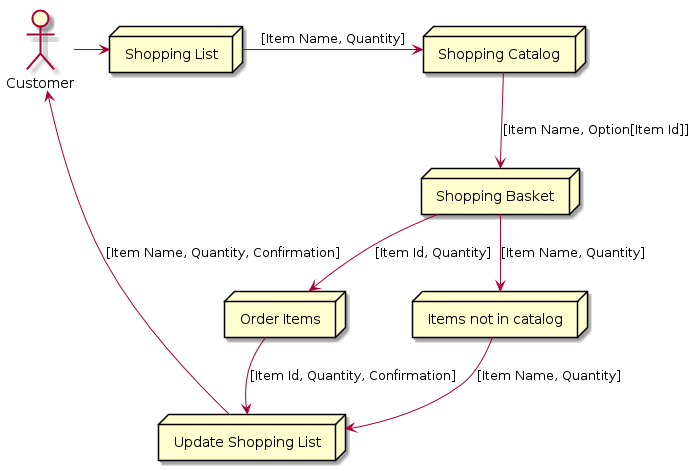
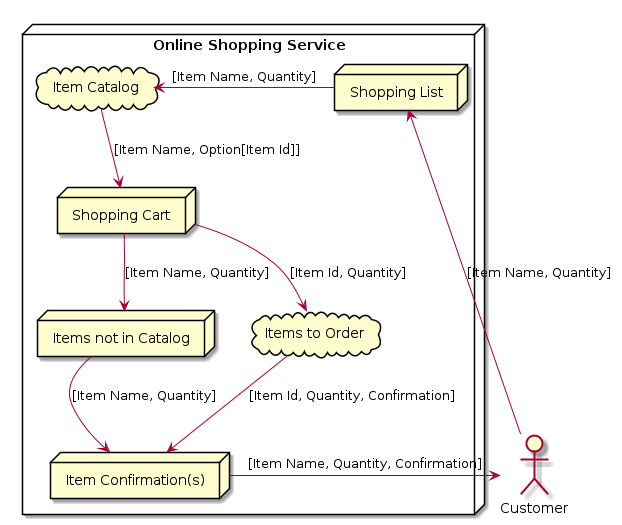
Nikola auto commit.
Nikola version: 8.0.2

diff --git a/posts/type-driven-development.md b/posts/type-driven-development.md
@@ -2,12 +2,11 @@
 .. title: Type Driven Development
 .. slug: type-driven-development
 .. date: 2019-09-08 16:11:55 UTC+02:00
-.. tags: 
+.. tags: software design, type driven development, functional programming, programming, scala
 .. category: 
 .. link: 
-.. description: 
+.. description: Type Driven Development: Formal specification using Type System. Define your code behaviour using types and let the compiler guide you to a verified system.
 .. type: text
-.. status: draft
 -->
 
 <!-- markdown-toc start - Don't edit this section. Run M-x markdown-toc-refresh-toc -->
@@ -26,7 +25,7 @@
     - [Step 1: Edge Behaviour: `List[ShoppingListItem] => F[List[ItemConfirmation]]`](#step-1-edge-behaviour-listshoppinglistitem--flistitemconfirmation)
     - [Step 2: Dependencies](#step-2-dependencies)
     - [Step3: Deriving Proof](#step3-deriving-proof)
-        - [Explanation: Monad, Functor & Higher Kinded Types](#explanation-monad-functor--higher-kinded-types)
+        - [Concepts: Monad, Functor & Higher Kinded Types](#concepts-monad-functor--higher-kinded-types)
         - [`ItemConfirmation` transformers](#itemconfirmation-transformers)
         - [Transformers to return complete `List[ItemConfirmation]`](#transformers-to-return-complete-listitemconfirmation)
         - [`toItemConfirmation` transformer](#toitemconfirmation-transformer)
@@ -35,15 +34,17 @@
 
 <!-- markdown-toc end -->
 # Introduction
-We use a Kanban/Agile mix methodology in our projects and we came across on an interesting problem when implementing a new feature. Rather than trying to explain it in vague terms, I am going to start with a story.
+In our project workflow, we break down features to implement into tickets and developers pick them off one by one; Pretty standard & typical Agile/Kanban workflow. However while working on a feature recently, we came across on an interesting problem where our standard workflow didn't work out. Rather than trying to explain it in vague terms, I am going to start with a story.
 
 ## TLDR
 In case you don't want to dive in just yet, here is the idea we will cover in this post.
 
 > Think about the behaviour of your program in terms of data types & functions signatures. Next step is to `prove` or `derive` a function that composes all of the types & signatures to implement the feature. Then carry on to implement each of the individual functions with the guarantee that all functions will compose together.
 
+Now onto the story.
+
 # The Square Jigsaw Table
-Master Carpenter was asked to create a square table which was made of four big square blocks that connect together like a jigsaw puzzle. Four colours were to be used - Red, Green, Yellow & Teal.
+A Master Carpenter was asked to create a square table which was made of four big square blocks that connect together like a jigsaw puzzle. Four colours were to be used - Red, Green, Yellow & Teal.
 
 ![Four coloured blocks of jigsaw](/images/orig.jpg)
 
@@ -53,14 +54,14 @@ The master carpenter had to go out of town and so he distributed the task among 
 * Each of you - `A`, `B`, `C` and, `D`, needs to build a square 
 * One side should have semicircle slot approximately 10% radius
 * The adjacent side should have a peg to fit the slot
-* It should have one of four colours - Red, Green, Yellow & Teal
+* It should have one of four colours - Red, Green, Yellow or Teal
 * If they don't perfectly fit at the end, I will finish the work once I am back
 * Since each of you will be working on your own, keep everyone updated of your progress
 
 During his journey, the craftsman was kept up to date by all of his apprentices. Their updates had the same gist.
-> The work is coming along great. I had to make some slight modifications but it is nothing major, it should be a quick fix once you are back.
+> I am progressing well with crafting the block. I had to make some slight modifications but it should be a quick fix once you are back.
 
-On his return, the craftsman asked the four apprentices to give him the blocks so he could start working on completing the table. But when they presented him with the four blocks, he realized that they had a big problem. Turns out that while each of the apprentices followed his instructions to the letter, none had thought about how they would fit together.
+On his return when apprentices presented master carpenter with the four blocks, he realized that they had a big problem. Turns out that while each of the apprentices followed his instructions, none had thought about how they would fit together and had made not-so-minor modifications.
 
 ![A block with 2x size, a lock with peg at top & a block with smaller hole](/images/apprentice-blocks.jpg)
 
@@ -71,27 +72,27 @@ I am sure that everyone has faced this problem at some point in their career. Fe
 
 ## Specification & Proof
 
-One way to avoid this issue is by defining behaviour of the final product with **just enough** information that everyone can work on their own with confidence. If we take the example of our four blocks, we can specify the behaviour and components using the block colours, pegs & holes of the four blocks and how they will connect. Here is what the apprentices were given to work with.
+One way to avoid this issue is by defining behaviour of the final product with **just enough** information that everyone can work on their own with confidence. If we take the example of our four blocks, we can specify the behaviour of components using the block colours, pegs & holes of the four blocks and how they will connect. Here is what the apprentices were given to work with.
 
 ![Pegs & holes of the four blocks is defined along with how they are connected. Rest of the block is missing.](/images/glue-code.jpg)
 
 Now each of the apprentices can use the block's skeleton to create his/her own block as (s)he knows the size, colour and position of peg & hole.
 
 # Type Driven Development
-We can achieve similar results with greater flexibility using Types & interfaces. Before we look at "How?" let's first define it.
+We can achieve similar results with greater flexibility using domain model types & interfaces/function types. Before we look at "How?" let's first formally define it.
 
 > Type Driven Development lets you define the behaviour in terms of:
 
 > * Components (Function Types)
 
-> * Domain models (Data Types).
+> * Domain models (Data Types)
 
-Once these specifications are in place, everyone can branch out to implement their individual tasks.
+Once these specifications are in place, everyone can branch out and implement their individual tasks.
 
 ## What does this mean?
-In essence we want to "prove" our design and rest assured that after we have started implementing the tickets, the components will work as expected and this can be done by way of types. If you use statically typed programming languages this should be relatively straightforward to achieve.
+In essence we want to "prove" our design and rest assured that after we have completed implementing the tickets, the components will work as expected and because the types compose. If you use statically typed programming languages this should be relatively straightforward to achieve.
 
-Good news is that we don't need to use a formal specification system like TLA+ or Coq but use plain old types and/or interfaces. An important point to keep in mind is that this is not a document but living code!
+Good news is that we don't need to use a formal specification tools like TLA+ or Coq but use plain old types and/or interfaces.
 
 Let's use the example of online shopping with Type Driven Development to get a deep understanding of how it can be done.
 
@@ -99,23 +100,27 @@ Let's use the example of online shopping with Type Driven Development to get a d
 
 Imagine that we have to build a service that:
 
-* Takes `Shopping List`
+* Takes a shopping list
 * Checks for available items
 * Orders available items
-* Returns consolidated list of ordered items and not found items
+* Returns consolidated list of
+    * Ordered items 
+    * Items not found and hence not ordered
 
-While this sounds straightforward and simple, defining all of this via program and ensuring it works well is not so easy.
+This sounds straightforward and simple but defining all of this via program and ensuring it works well is never straightforward.
 
-To start off with, here's a flow diagram that shows the above steps along with some of the hidden tasks also illustrated.
+To start off with, here's a flow diagram that shows the above four steps along with some of the interim steps.
 
 ![Shopping process](/images/shopping.png)
 
+Note that we use *cloud* to represent external dependencies.
+
 # Code Demo
 
-Note: In order to make the code properly compose, we will be making use Scala's `Cats` library. I will try to explain how some of the FP concepts make sense in our context. For example, we will be using `Monad` & `Functor` to begin with.
+I will be using Scala's `Cats` library for the code demo as it allows us to use some of the concepts we need to compose our types.
 
 ## Step 0: Structure
-We start with four `object`s with predefined purpose as explained by the comments
+We start with four `object`s with predefined purpose as explained in the comments
 
 ```scala
 package sandbox
@@ -135,10 +140,10 @@ object Specification {}
 ```
 
 ## Step 1: Edge Behaviour: `List[ShoppingListItem] => F[List[ItemConfirmation]]`
-Based on the flow diagram, if we think from Customer's perspective we know that:
+Based on the flow diagram, if we think from customer's perspective we know that:
 
 * Customer has a `shopping list` which consists of a `list` of `items` & `quantity` to buy.
-* Upon ordering, Customer will have a `list` which `confirms` if the `items` & `quantity` requested were bought.
+* Upon ordering, customer will have a `list` which `confirms` if the `items` & `quantity` requested were bought.
 
 We can represent in code with following domain models & functions.
 
@@ -178,10 +183,14 @@ We also have two external dependencies
 * If `ItemName` exists but does not have `ItemId`, it will return `(ItemName, None)`
 * If `ItemName` does not exist in the system, it will not be returned by the system
 
+This behaviour will be encapsulated by the function type `QueryCatalog`.
+
 ***Shop*** is used to order items that can be found in the system. It behaves as follows:
 
 * For given `ItemId` & `Quantity`, it will return those details along with `Confirmation`
 * `Confirmation` denotes whether the quantity of item was successfully ordered or not
+
+This behaviour is encapsulated by the function type `OrderItems`.
 
 All this can be represented in the code as follows.
 
@@ -191,8 +200,6 @@ package sandbox
 import scala.annotation.StaticAnnotation
 
 import DataTypes._
-
-case class Note(message: String) extends StaticAnnotation
 
 object DataTypes {
   // ...
@@ -208,6 +215,8 @@ object DataTypes {
   )
 }
 
+case class Note(message: String) extends StaticAnnotation
+
 object Dependencies {
   @Note("List[CatalogInfo] <= List[ShoppingListItem]")
   type QueryCatalog[F[_]] = List[ShoppingListItem] => F[List[CatalogItem]]
@@ -220,13 +229,13 @@ object Dependencies {
 
 We have defined the behaviour of our dependencies and also define how the overall system should behave from Customer's perspective.
 
-### Explanation: Monad, Functor & Higher Kinded Types
+### Concepts: Monad, Functor & Higher Kinded Types
 
 * **F[_]** is Higher Kinded Type. That is, it is any type which has a "hole" which can contain another type. Common examples are `Option[Int]`, `List[String]` etc.
 * **Monad** for our purpose is a Higher Kinded Type that has `flatMap` implemented for use.
 * **Functor** is another Higher Kinded Type that has `map` implemented.
 
-Since we are dealing with `F[_]` in our code, we will need to qualify it as a `Monad` for `flatMap` to work.
+We are defining our external dependencies via `F[_]` because they are IO operations over the network. Furthermore, we will to qualify `F[_]` as a `Monad` because we need to wait upon the IO operation to be completed and then work with the computed value, this is done by way of `flatMap`.
 
 Let's see if we can now compose our dependencies to return `List[ItemConfirmation]`
 
@@ -262,9 +271,9 @@ If we try to compile the code, we get following error.
 [error]         orderedItems <- orderItems(catalog)
 [error]                                    ^
 ```
-What does this tell us? It tells us that we need function/behaviour with following signature `List[CatalogItem] => List[ShopOrderItem]`.
+The compiler is telling us that we need to define function/behaviour with following signature `List[CatalogItem] => List[ShopOrderItem]`.
 
-Let's look at what happens if we define such a function.
+Let us define such a function type, use it within our `proof` as `toShopOrder`, transform `catalog` to `shopItems` and then recompile our code.
 
 ```scala
  package sandbox
@@ -304,10 +313,10 @@ If we try to compile above code we get
 
 Now we know two things:
 
-* We need to define the transformation function `ShopConfirmation => ItemConfirmation`
-* We need another transformation function, `ShoppingListItem => ItemConfirmation`. As we already noted that that `List[CatalogItem] <= List[ShoppingListItem]`, this means that in case we have any unavailable items, we have to create `ItemConfirmation` from `ShoppingListItem`.
+* We need to define the transformation function `shopToItemConfirmation: ShopConfirmation => ItemConfirmation`
+* We need another transformation function, `itemToItemConfirmation: ShoppingListItem => ItemConfirmation`. This is needed because we can have items not available in **catalog**.
 
-*Minor update*: We need to properly define the behaviour/flow `(List[ShoppingListItem], List[CatalogItem]) => List[ShopOrderItem]` because `CatalogItem` does not have all the information to be converted to `ShopOrderItem` so we will also need `ShoppingListItem` for complete conversion.
+*Minor update*: We need to redefine the behaviour/flow `toShopOrder` as `(List[ShoppingListItem], List[CatalogItem]) => List[ShopOrderItem]` because `CatalogItem` does not have all the information to be converted to `ShopOrderItem` so we will also need `ShoppingListItem` for complete conversion.
 
 
 ```scala
@@ -358,7 +367,7 @@ case class ItemConfirmation(
 )
 ```
 
-Based on these four domain models, following is one such solution which requires two main functions:
+Based on these four domain models, following is one such solution which defines two function types:
 
 ```scala
 case class Pairs(items: ShoppingListItem, confirmations: Option[ShopConfirmation])
@@ -424,13 +433,26 @@ object Specification {
 
 # Conclusion
 
+Now if we look at complete specification, we can tell that following functions/types need to be defined.
+```scala
+
+val toShopOrder: (List[ShoppingListItem], List[CatalogItem]) => List[ShopOrderItem] = ???
+
+val shopToItemConfirmation: (ItemName, ShopConfirmation) => ItemConfirmation = ???
+
+val itemToItemConfirmation: ShoppingListItem => ItemConfirmation = ???
+
+val getPairs: (List[CatalogItem], List[ShoppingListItem], List[ShopConfirmation]) => List[Pair] = ???
+
+```
+
 I found this style of defining types & "proving" the design to be quite beneficial for clarity of thought. And as I kept introducing types it was easier to see how the code would flow and whenever I felt something was unclear, I could start adding more details and thus get rid of nasty surprises at the earliest.
 
-As I kept working on this, I came across the concept of **Dependent Types** and that is indeed something I intend to dig into. It would be interesting to see where the two concepts intersect and where they are geometrically opposed.
+While experimenting with this style, I came across the concept of **Dependent Types**. It would be interesting to see where the two concepts intersect and where they are geometrically opposed.
 
 ## Complete Source Code
 
-For the sake of completeness, I am providing the complete code of everything I have described in this blog post in one single section.
+For the sake of completeness, I will also provide the complete code of everything I have described in this blog post in one single section.
 
 ```scala
 package sandbox
